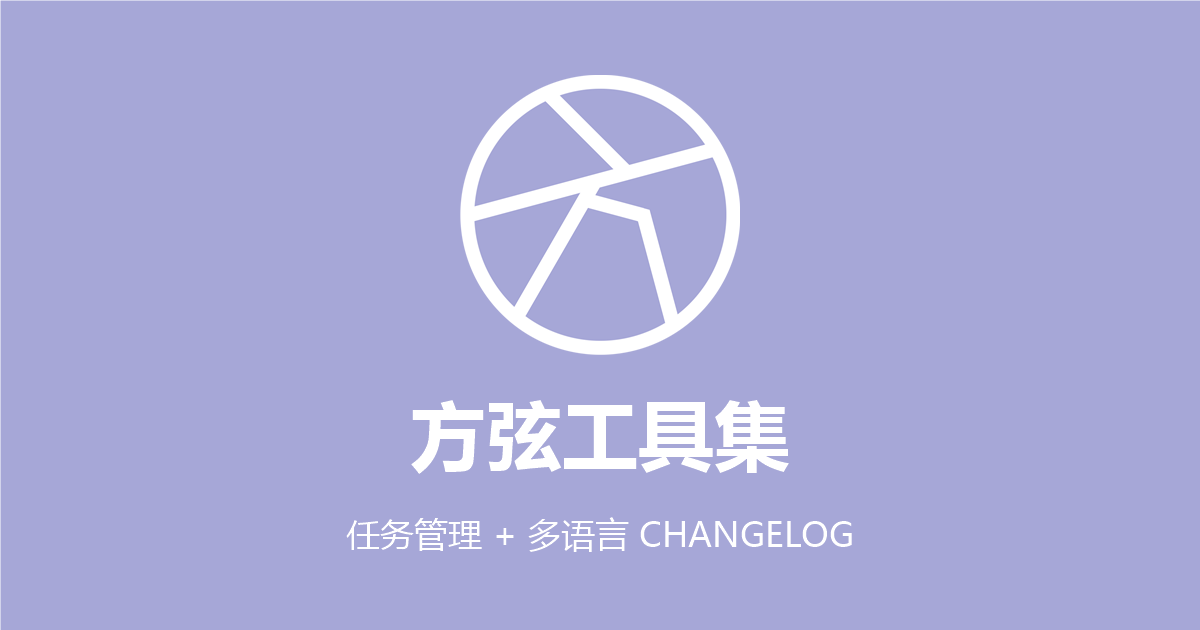
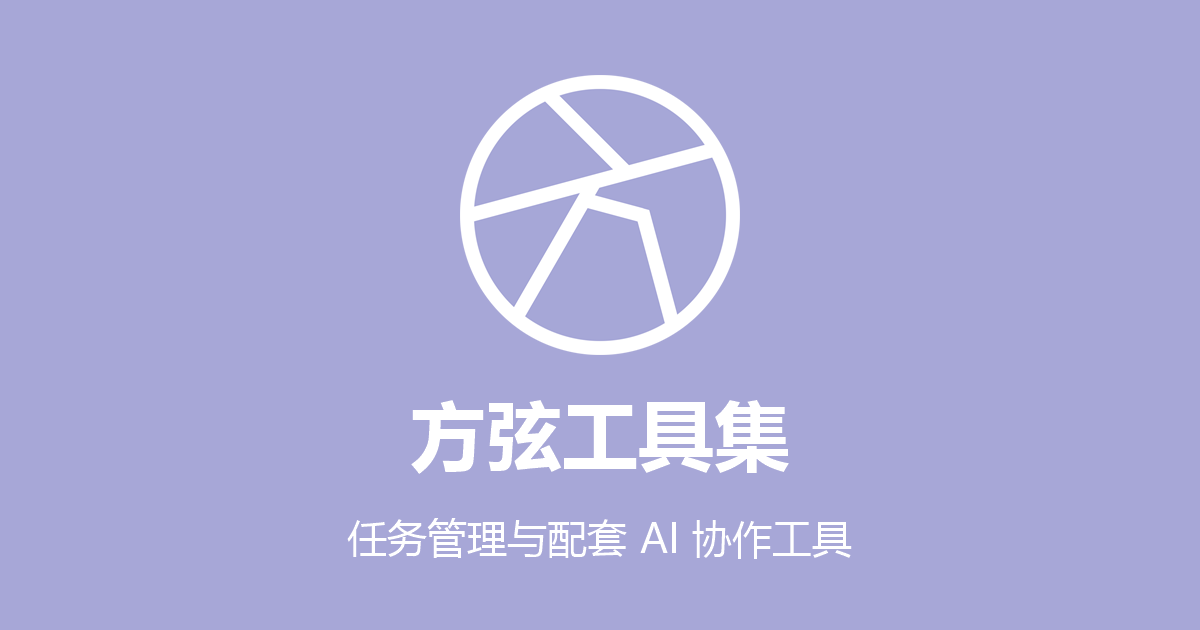
文档：重做社交分享图副标题
- 副标题改为「任务管理与配套 AI 协作工具」
- 版式与几何沿用原图，仅换副标题文案

Changed region(s): [[0.2775, 0.8143, 0.7092, 0.9048]]

diff --git a/.tasks/archive/202611/20261114.md b/.tasks/archive/202611/20261114.md
@@ -2,6 +2,61 @@
 
 > 本文件由 `toolkit tasks archive` 自动生成。
 
+## 20261114-唐启云-og-image-副标题重做
+
+> 负责人：唐启云　状态：已完成　范围：toolkit　完成时间：2026-11-14 08:57
+
+# og-image 副标题重做
+
+> 批次：定位文案校准（方案 B）；计划位置：第 1 个（共 1 个）；前置：无；后继：无
+> 来源：延续 根描述与站点文案重写（见 archive/202611/20261114.md）与 og-image 定案（见 archive/202609/20260905.md）
+
+## 背景
+
+根描述已改为「任务管理与配套 AI 协作工具」口径，`docs/public/og-image.png` 的副标题仍是烘焙进像素的旧句
+「任务管理 + 多语言 CHANGELOG」，社交分享卡片与站点文案不一致。本任务按原版式重做该图，副标题改用短版
+「任务管理与配套 AI 协作工具」。
+
+源图：`<本机>/…/方弦图标-圆形.png`（1024×1024，32bpp ARGB）。
+
+## 实施方案
+
+1. 沿用 1200×630 画布与品牌淡紫底色 RGB(167,167,215)；主标题「方弦工具集」白色粗体，副标题白色常规体。
+2. 几何按现有图反推：圆形图标 280×280 居中、顶边 75；主标题墨迹区 y 400–472、宽 378；副标题墨迹区 y 518–551、宽 505。
+3. 生成方式：PowerShell 内置 `System.Drawing` 高质量插值合成，不新增依赖；字号按目标墨迹宽高标定。
+4. 产物覆盖 `docs/public/og-image.png`；`docs/.vitepress/config.mts` 的 `og:image` 路径不变，无需改。
+5. 新建 `.changeset/og-image-subtitle-refresh.md`（patch），条目按 `- 类型：描述` 书写。
+
+## 影响范围
+
+- 文档触达：docs/public/og-image.png
+- 逐篇走查结论：
+
+| 页面 | 结论 |
+| --- | --- |
+| `docs/public/og-image.png` | 已同步：副标题换新短版，版式与几何沿用原图 |
+| `docs/index.md` | 无触达：hero 已在上一任务改为短版 |
+| `README.md`、`package.json`、`src/about.ts` | 无触达：根描述已在上一任务定稿 |
+| `docs/.vitepress/config.mts` | 无触达：`og:image` 引用路径不变 |
+| 其余 `docs/` 页面（quick-start、faq、guide、handbook、api、config、packages、404、changelog、cli/*、config/*、rules/*、usage/*） | 无触达：均为文字内容，位图改动不影响其表述 |
+
+- skills：无触达，技能版本不递增。
+- 变更集：`.changeset/og-image-subtitle-refresh.md`
+
+## 验证与回滚
+
+- 验证：`node dist/cli.js tasks check`（0 error 0 warn）；对比新图与旧图的墨迹带位置（应为三带：图标 75–354、标题 400–472、副标题 518–551，副标题宽随新文案变化）；
+  `pnpm verify`（含 docs:build，产物引用不破）。
+- 回滚：`git revert` 本任务提交，位图与变更集一并回退。
+
+## 执行结果
+
+- `docs/public/og-image.png` 重生成（1200×630、32bpp ARGB）：图标 75–354（280×280）、标题 400–472（宽 378）与原图一致；
+  副标题改为「任务管理与配套 AI 协作工具」，墨迹 518–558、宽 503，字号按目标宽度标定为 40.2px。
+- 变更集：新增 `.changeset/og-image-subtitle-refresh.md`（patch，一条：文档）。
+
+---
+
 ## 20261114-唐启云-根描述与站点文案重写
 
 > 负责人：唐启云　状态：已完成　范围：toolkit　完成时间：2026-11-14 08:30

diff --git a/.changeset/og-image-subtitle-refresh.md b/.changeset/og-image-subtitle-refresh.md
@@ -1,0 +1,5 @@
+---
+"@fxri/toolkit": patch
+---
+
+- 文档：社交分享图副标题改为「任务管理与配套 AI 协作工具」，与站点首屏文案一致
